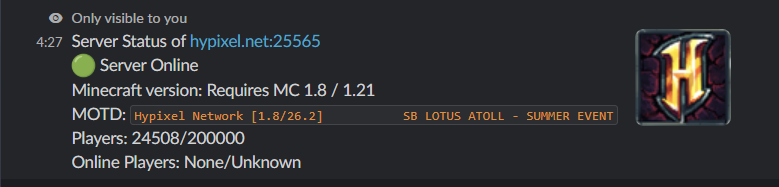
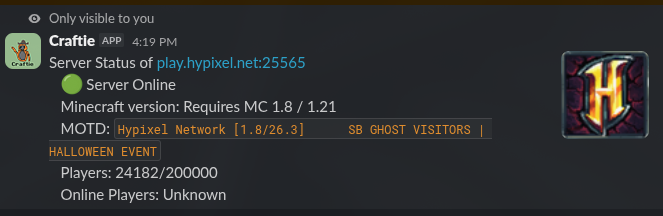
docs: update readme.md

diff --git a/README.md b/README.md
@@ -2,27 +2,45 @@
 
 This is a bot I made for the Hack Club Slack that fetches specific minecraft-related info using slack commands.
 
-The commands currently avaiable are:
+## Commands:
 
-        /craftie-help - Show help message
-        /craftie-ping - Check bot latency
-        /craftie-status (java|bedrock) <server> [port] - Check Minecraft server status
-        /craftie-player <name|uuid> - Get player info with a nice image
+The following commands are available with this bot:
 
-`/craftie-status` fetches information on minecraft servers, both bedrock and java, such as their MOTD, how many players are online, what minecraft version it uses and more as seen below:
+> [!IMPORTANT]
+> All commands use the prefix `craftie-` on hackclub slack
 
-![Output of `/craftie-status` command](images/serverstatus.png)
+`/status (java|bedrock) <server> [port]`
+fetches information on minecraft servers, both bedrock and java, such as their MOTD, how many players are online, what minecraft version it uses and more.
 
-`/craftie-player` fetches information on a minecraft player account using their username or UUID. It currently only shows the UUID, username, and skin images, however more is to be added (if possible).
+`/player-status <name|uuid>` (`/craftie-player` on slack) fetches information on a minecraft player account using their username or UUID. It currently only shows the UUID, username, and skin images.
 
-![Output of `/craftie-player` command](images/playercmd.png)
+`/help` outputs a list of all available commands with their usage.
 
-`/craftie-ping` is a simple command that sends the ping from the bot to slack.
-
-`/craftie-help` is a command that shows all commands and what they do.
+`/ping` replies with pong to indicate the bot is working.
 
 # How to use the bot (as a hack club member)
 
-In order to use the bot you need to use it in a channel the bot is in so it can send images. These channels currently are `#monke-coding` (my personal channel) and `#bot-spam`, however you can add it to more with `/invite @Craftie`, however make sure it's allowed in the channel you're using it.
+## Slack:
+
+To use the bot on slack you either have to configure the bot to use it on your own slack, or join the [hackclub](https://hackclub.com/) slack.
+
+On the hack club slack the bot is added to [`#gold-coding`](https://hackclub.enterprise.slack.com/archives/C0BE1K8EW82) (my personal channel) and [`#bot-spam`](https://hackclub.enterprise.slack.com/archives/C0P5NE354), so it is recommended you use it there.
 
 Excecuting the commands themselves is pretty easy, as you can just start typing `/craftie-` and all commands will be at top. If you want to know what all commands are you can do `/craftie-help`
+
+## Discord:
+
+To use the bot you can either add it to your own discord server or as a personal app using the [invite link](https://discord.com/oauth2/authorize?client_id=1551701776753885196). The other option is to join my [discord server](https://discord.gg/SGxwmZUfnQ), where the bot is already added and you can use it in `#bot-commands`.
+
+Then you can just use the commands like any other discord command by typing / and then filling in the options for the command, like this:
+![image showing discord command usage](images/discordcmd.png)
+
+# Screenshots:
+
+![Output of `/craftie-status` command](images/serverstatus.png)
+
+![Output of `/craftie-player` command](images/playercmd.png)
+
+![Out put of `/status` on discord](images/serverstatusdc.png)
+
+![Out put of `/status` on discord](images/playercmddc.png)
